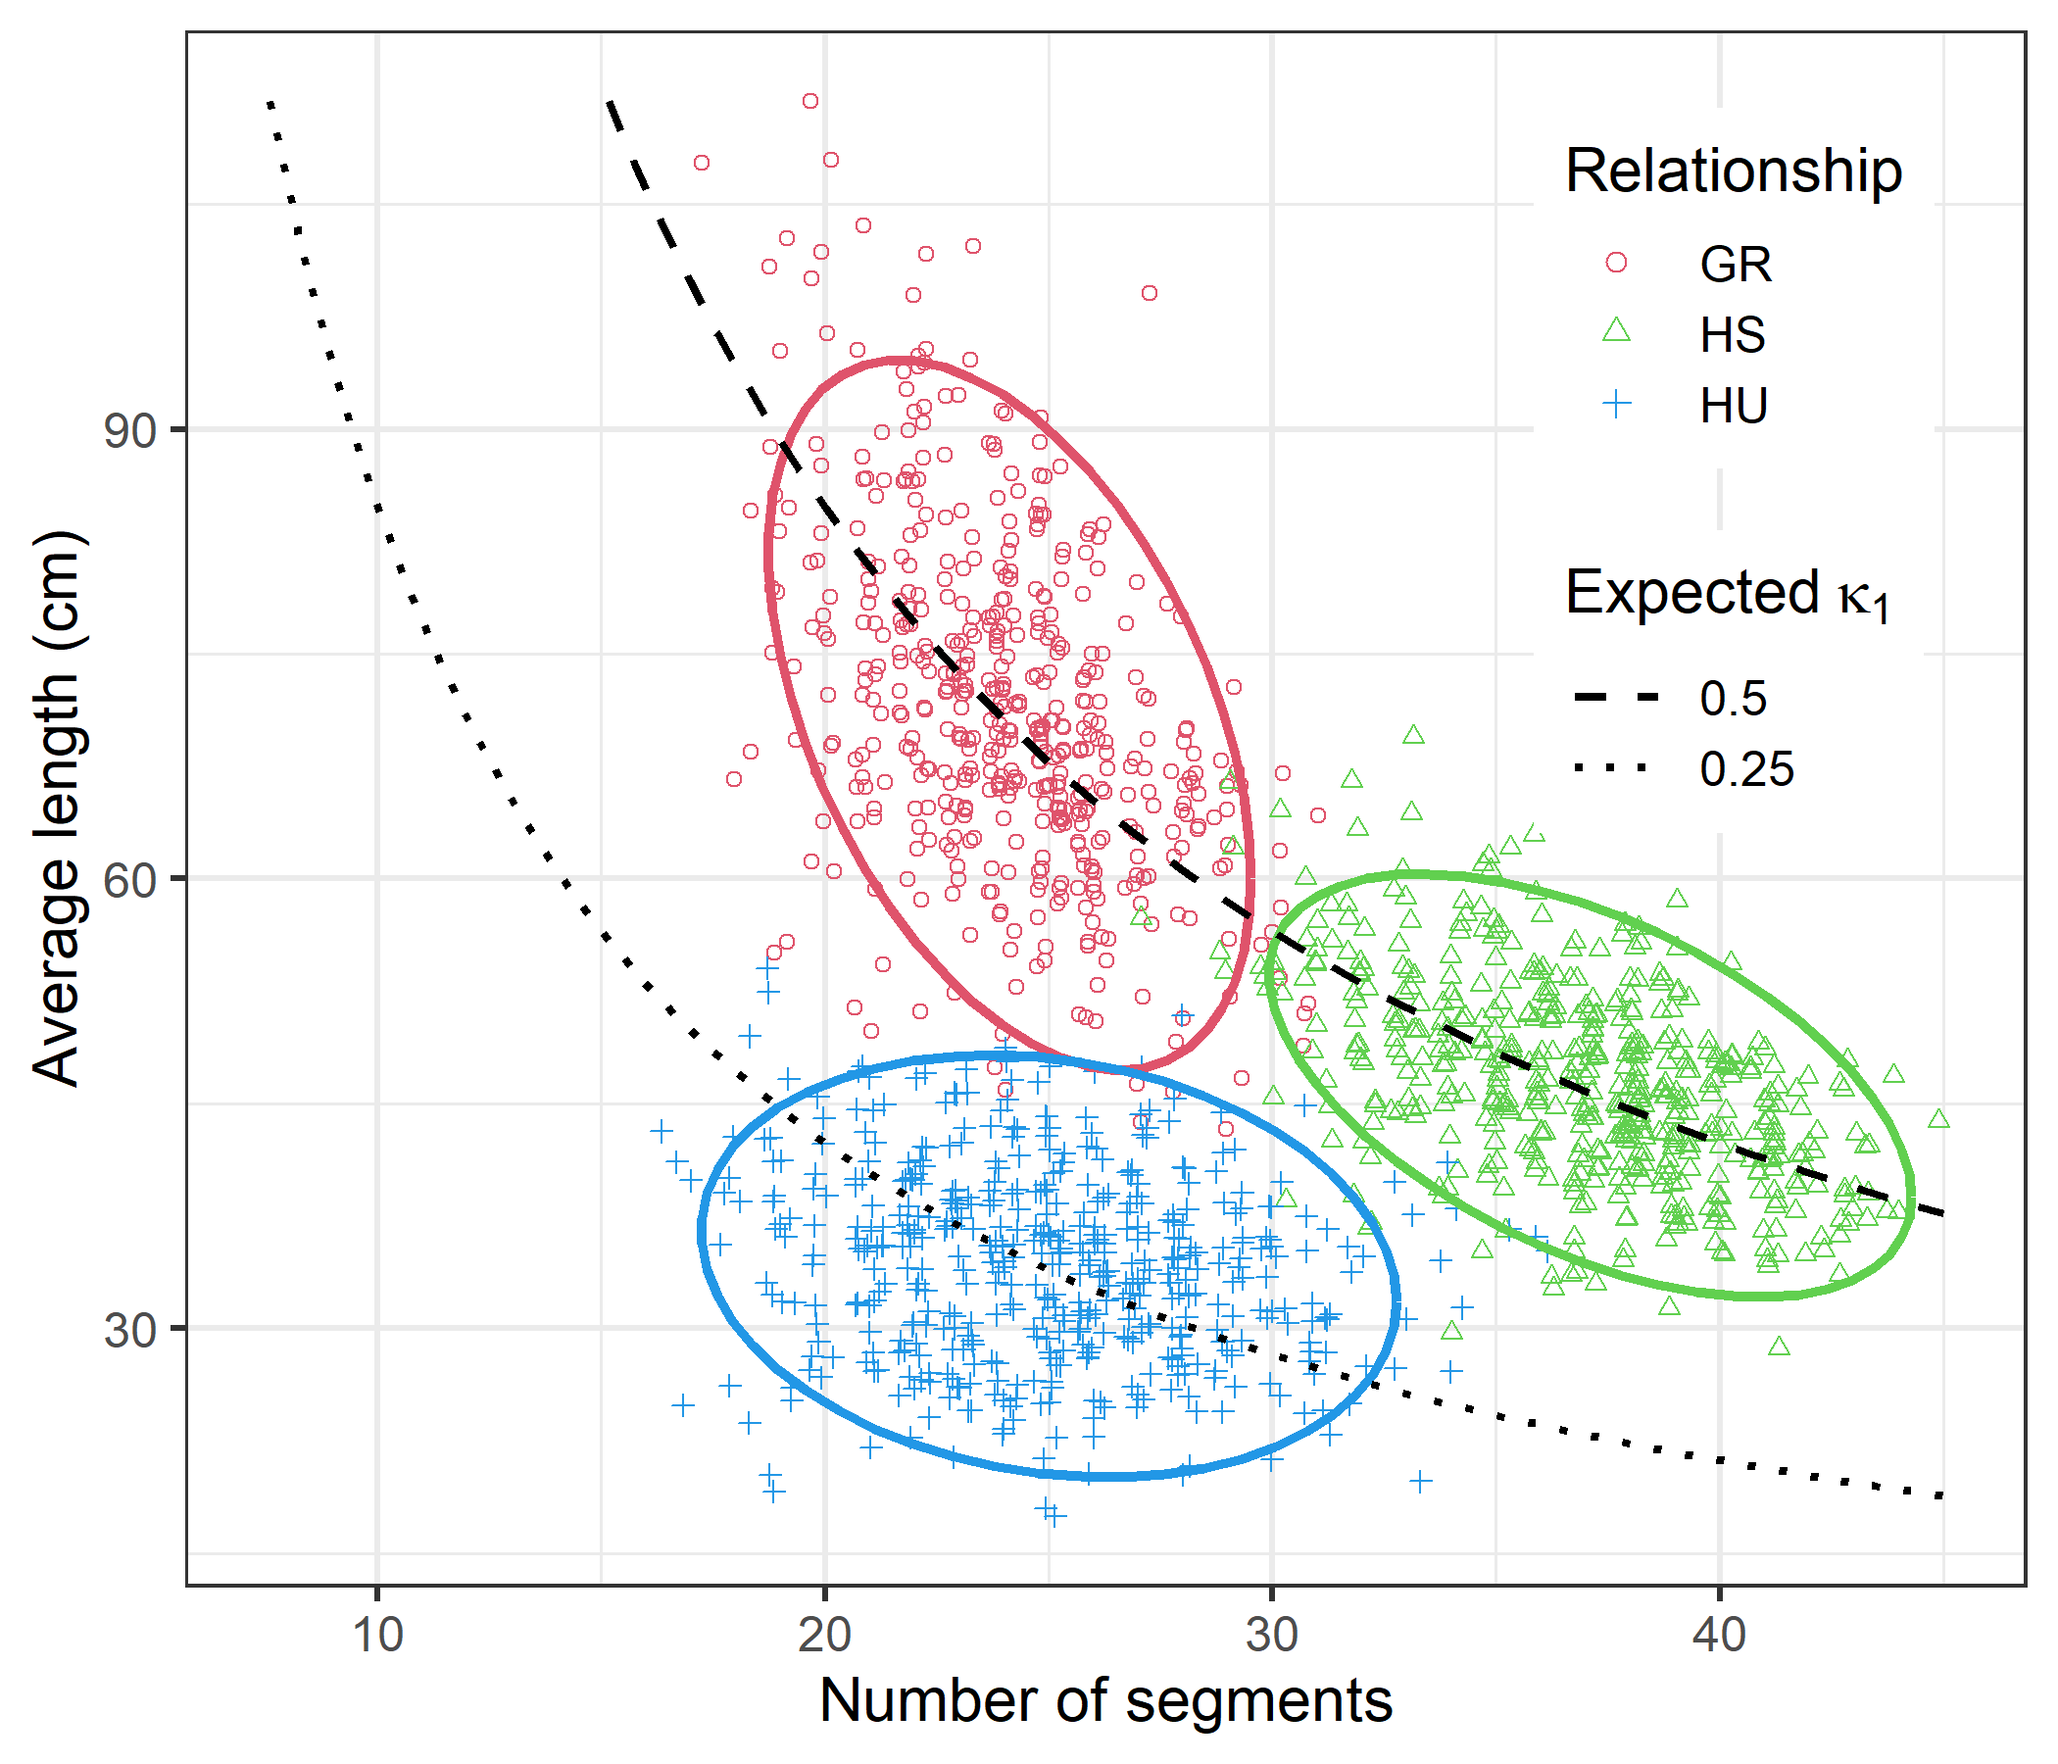
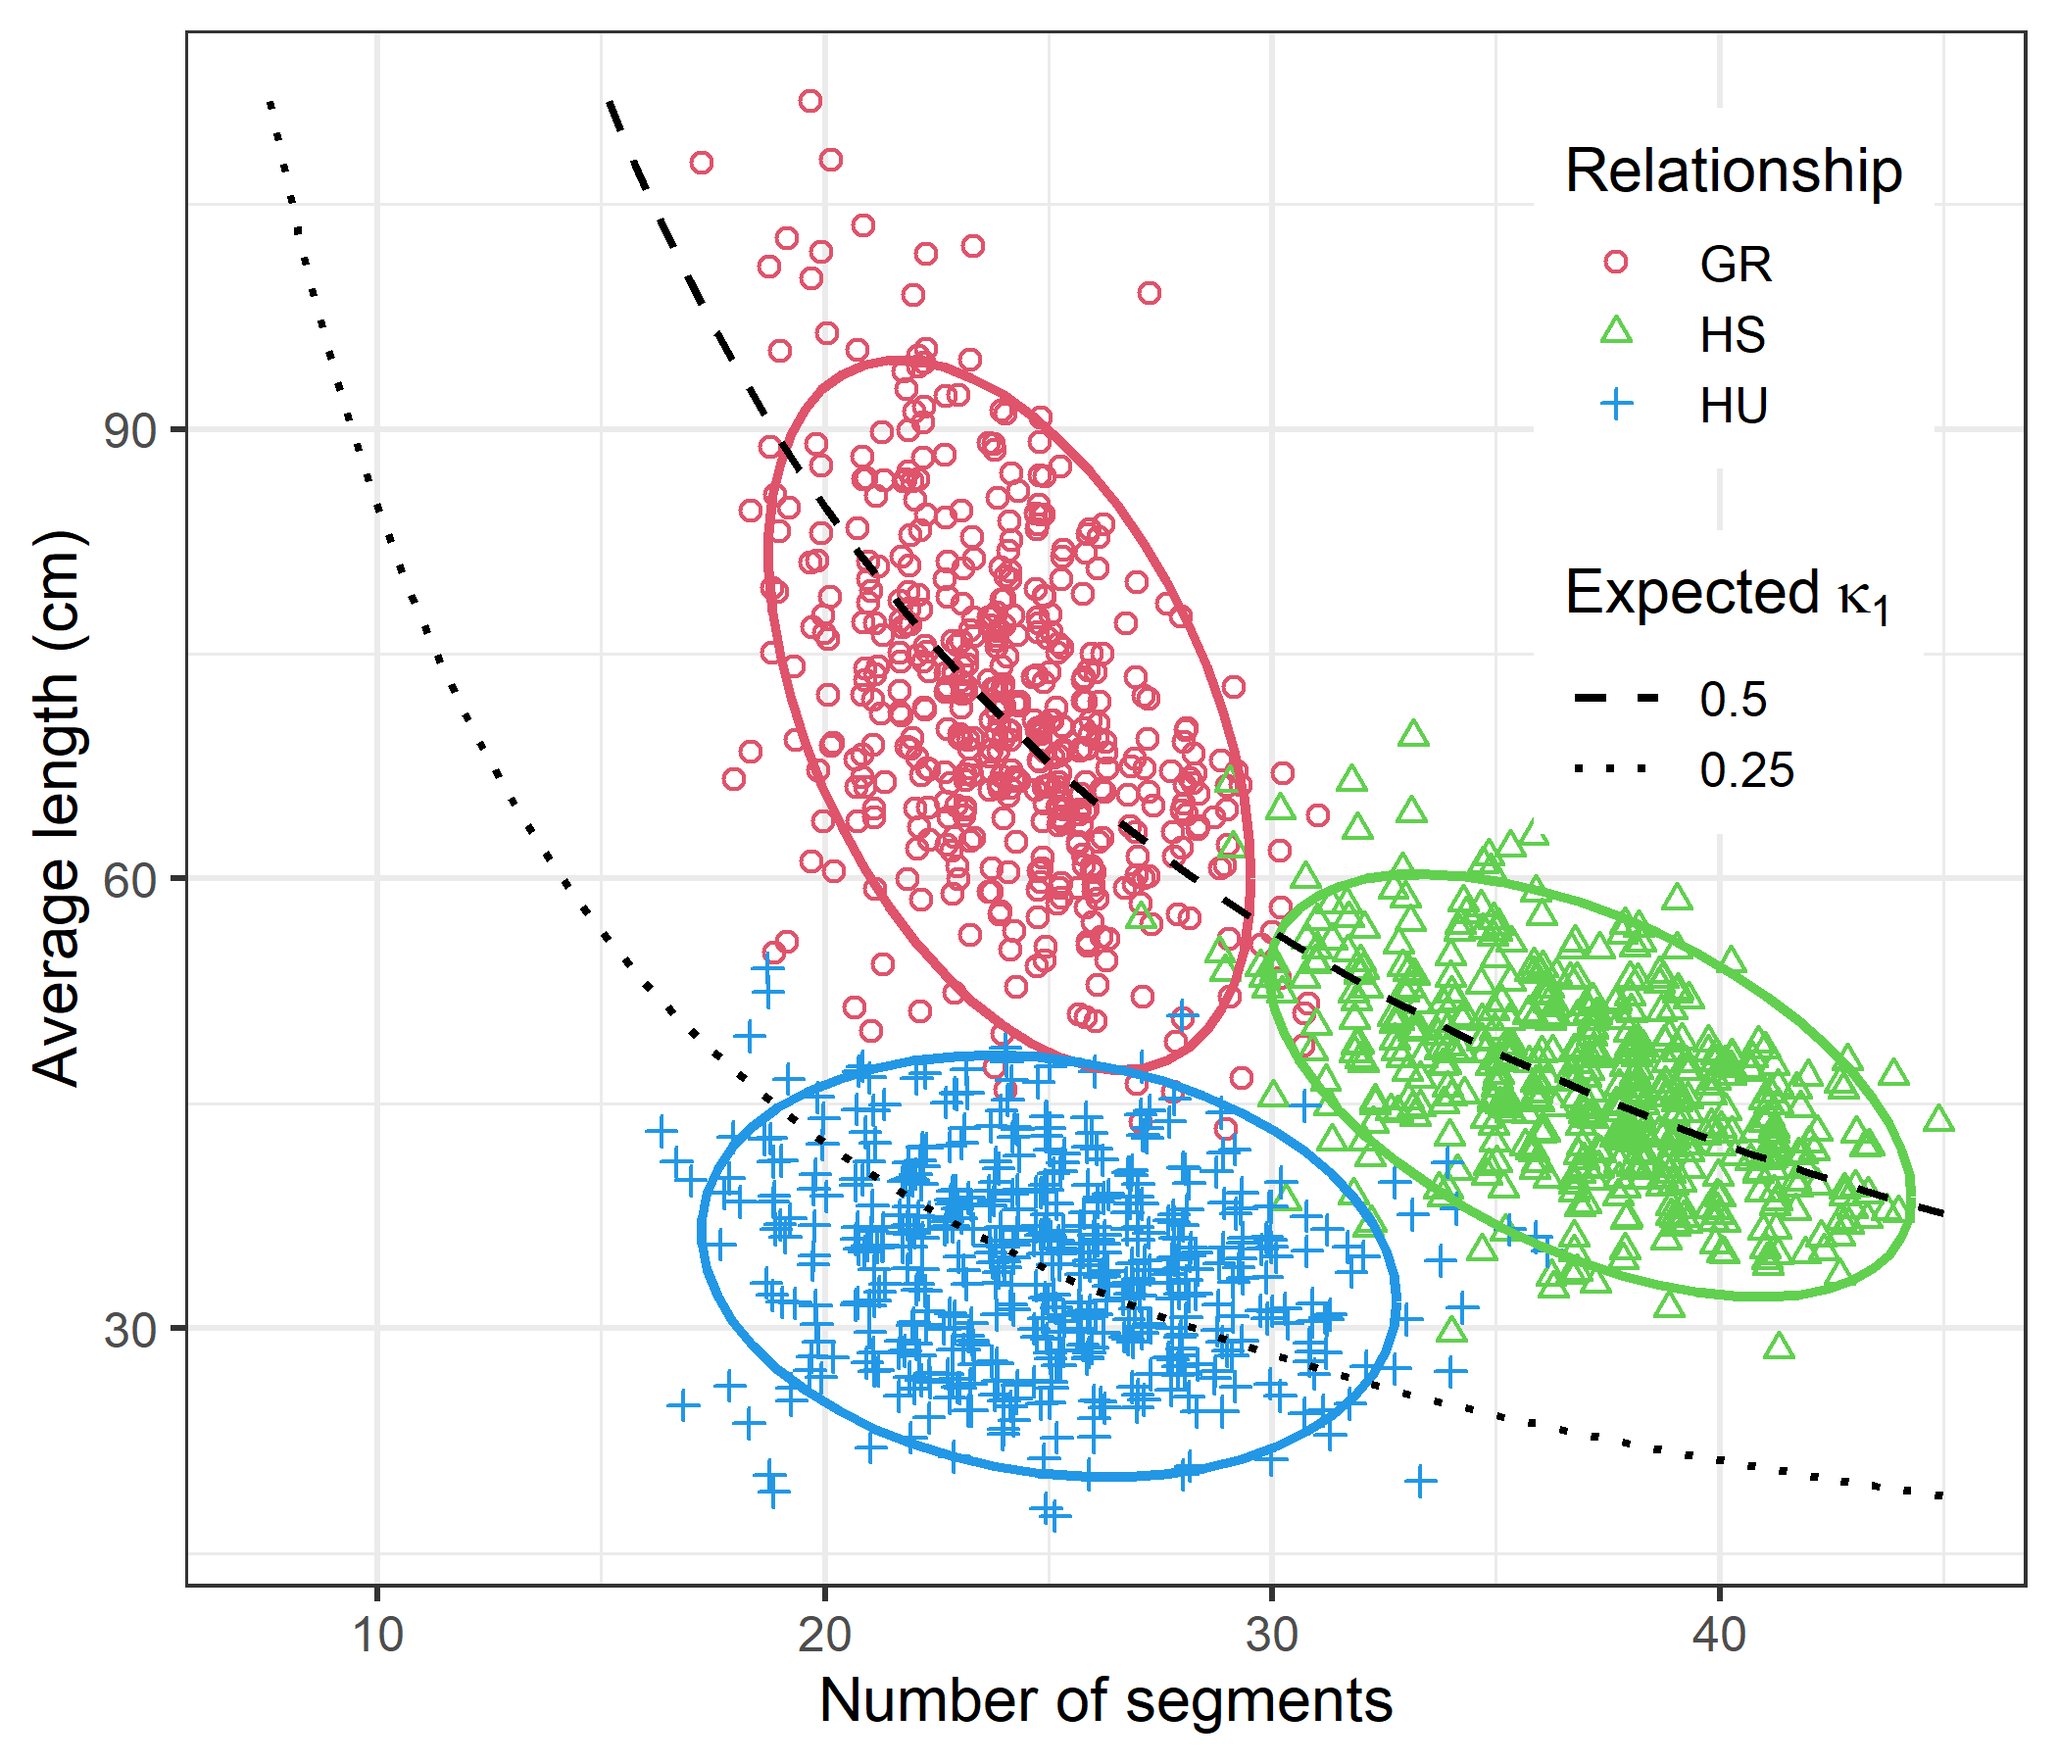
Tidy up

diff --git a/inst/shiny/www/custom.css b/inst/shiny/www/custom.css
@@ -1,4 +1,3 @@
-.body {font-size: small}
 
 .well {padding-top: 10px; margin-bottom: 10px}
 
@@ -6,8 +5,7 @@
 .selectize-input {white-space: nowrap; overflow: hidden;}
 
 #origin0panel .form-group.shiny-input-container {margin:0; font-size: small;}
-#origin0panel .form-group.shiny-input-container label {
-  display: block; margin-bottom: 2px;}
+#origin0panel .form-group.shiny-input-container label {display: block; margin-bottom: 2px;}
 
 .fa-arrow-left { font-size:xx-large; color:#E87722; margin-top:6px}
 

diff --git a/src/ibdsim2.cpp b/src/ibdsim2.cpp
@@ -130,6 +130,10 @@ NumericVector convert_pos_C(NumericVector pos,
   for(int i=0; i < res.length(); ++i) {
     
     src = pos[i];
+    if(NumericVector::is_na(src)) {
+      res[i] = NA_REAL;
+      continue;
+    }
     
     // Values outside of map
     if(src < mapFrom[0]) {
@@ -164,27 +168,22 @@ NumericVector convert_pos_C(NumericVector pos,
 NumericMatrix build_allelemat_C(NumericVector pos, List haplolist) { 
   // Each entry of haplolist: matrix with 2 columns (breaks - allele)
   
-  int idx = 0;
-  
-  NumericMatrix am(pos.length(), haplolist.length());
-  //if(is.null(haplo)) return(rep(0, length(posvec)))
+  int npos = pos.length();
+  NumericMatrix am(npos, haplolist.length());
   
   for(int j=0; j < haplolist.length(); ++j) {
     
     if(haplolist[j] == R_NilValue) {
       continue;
     }
-    NumericMatrix h = haplolist[j]; 
-    NumericVector breaks = h(_, 0);
-    NumericVector als = h(_, 1);
-    for(int i=0; i < pos.length(); ++i) {
-      if(breaks.length() == 1) {
-        idx = 0;
-      }
-      else {
-        idx = std::distance(breaks.begin(), std::upper_bound(breaks.begin(), breaks.end(), pos[i])) - 1;
-      }
-      am(i, j) = als[idx];
+    NumericMatrix h = haplolist[j];
+    int idx = 0;
+    int nbreaks = h.nrow();
+
+    for(int i = 0; i < npos; ++i) {
+      while(idx + 1 < nbreaks && h(idx + 1, 0) <= pos[i])
+        ++idx;
+      am(i, j) = h(idx, 1);
     }
   }
   return am;

diff --git a/README.md b/README.md
@@ -17,15 +17,15 @@ status](https://www.r-pkg.org/badges/version/ibdsim2)](https://CRAN.R-project.or
 here: [ibdsim2-shiny](https://magnusdv.shinyapps.io/ibdsim2-shiny/)
 </span>
 
-As of version 2.1.0, the Shiny app is integrated into `ibdsim2`. The app
-depends on some packages that are not installed by default. To install
-everything needed by the app, use:
+As of version 2.1.0, a local version of the Shiny app is also available
+within the `ibdsim2` R package. To ensure the app has all required
+dependencies, use the following installation command:
 
 ``` r
 install.packages("ibdsim2", dependencies = TRUE)
 ```
 
-The app can then be run from R with the command:
+The app can then be run from R with:
 
 ``` r
 ibdsim2::launchApp()
@@ -174,7 +174,7 @@ s = ibdsim(x, N = 500, map = "decode19", seed = 1234)
 #> Recomb model : chi
 #> Target indivs: 1-7
 #> Skip recomb  : -
-#> Total time used: 6.65 secs
+#> Total time used: 7.44 secs
 ```
 
 The `plotSegmentDistribution()` function, with the option
